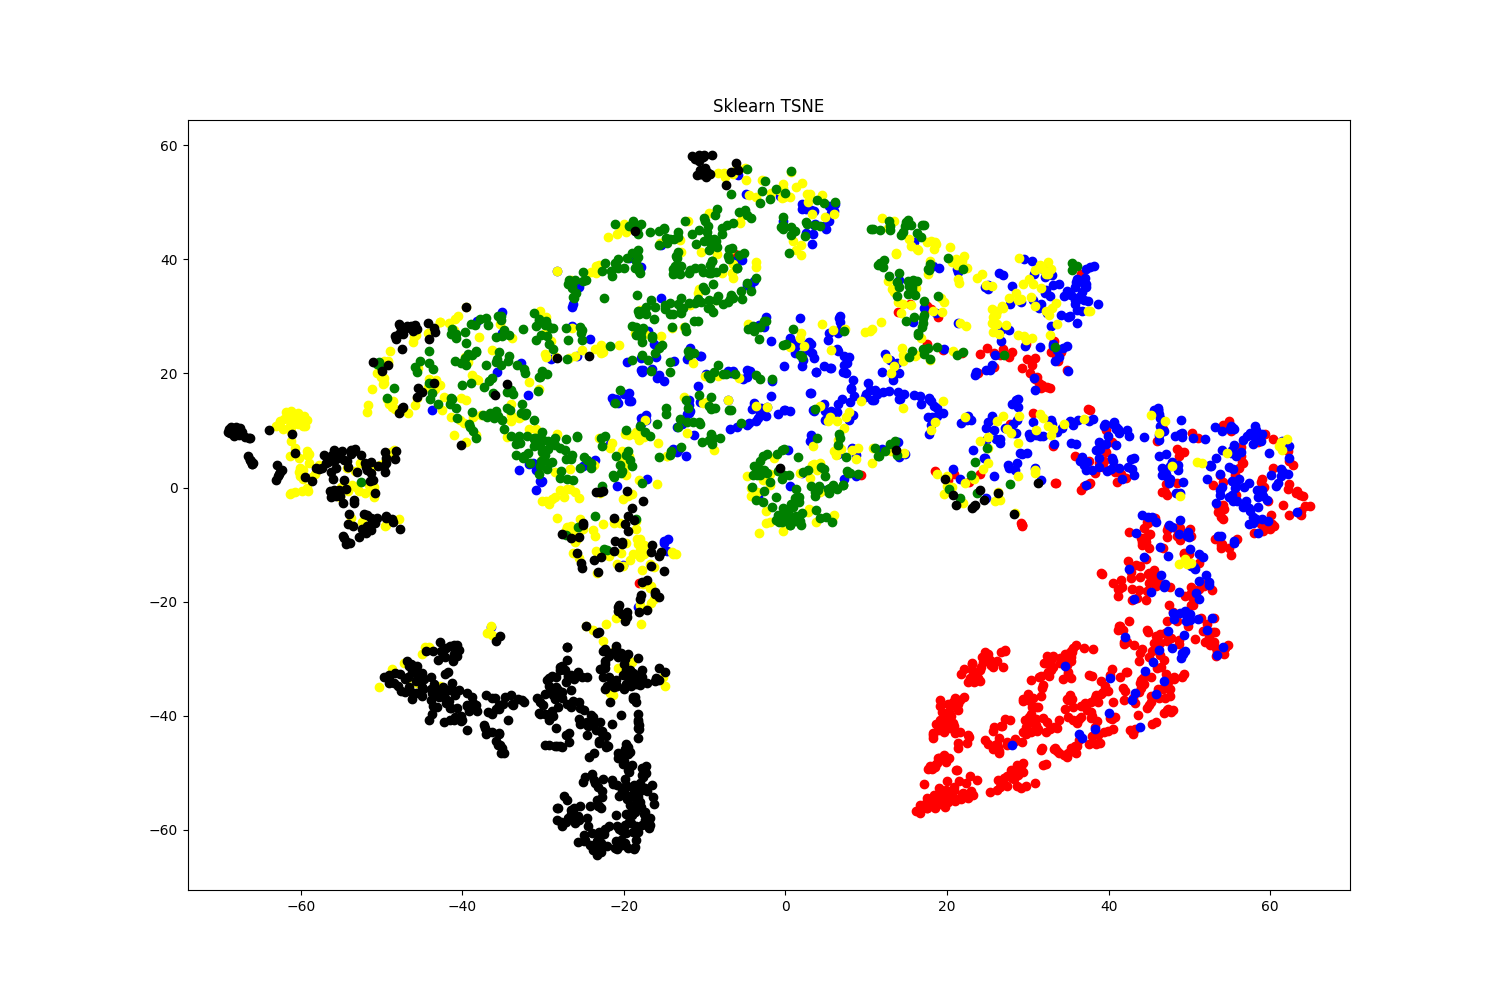
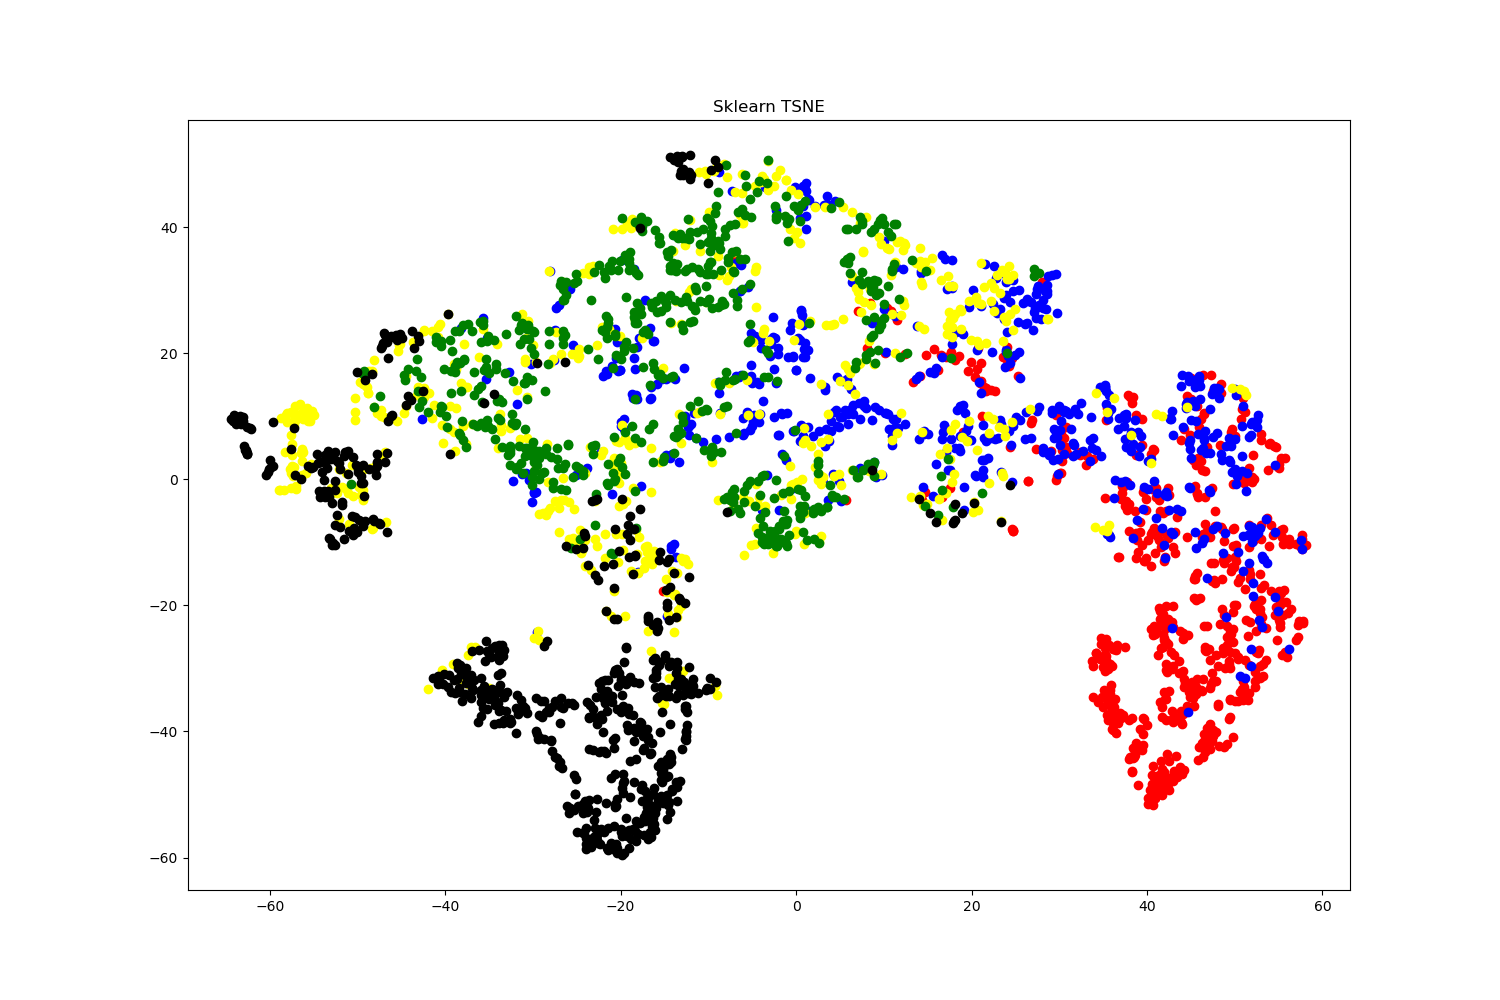
update

diff --git a/EEG/View_originalData/main.py b/EEG/View_originalData/main.py
@@ -38,7 +38,7 @@ def loadData(filename):#加载数据，一行行的存入列表
 
 
 if __name__ == '__main__':
-    seed(1)
+    seed(3407)
     Color = ["red", "blue", "yellow", "green", "black"]
     X, Y = loadData('./sleepdata.xlsx')
     X_embedded = manifold.TSNE(n_components=2).fit_transform(X)

diff --git a/EEG/test.py b/EEG/test.py
@@ -110,6 +110,6 @@ if __name__ == "__main__":
     # test_model = "./model/sleep1/FC_700.pth"
     test_model = "./model/FC_best.pth"
 
-    # test(test_model)
-    inference(test_model)
+    test(test_model)
+    # inference(test_model)
 
